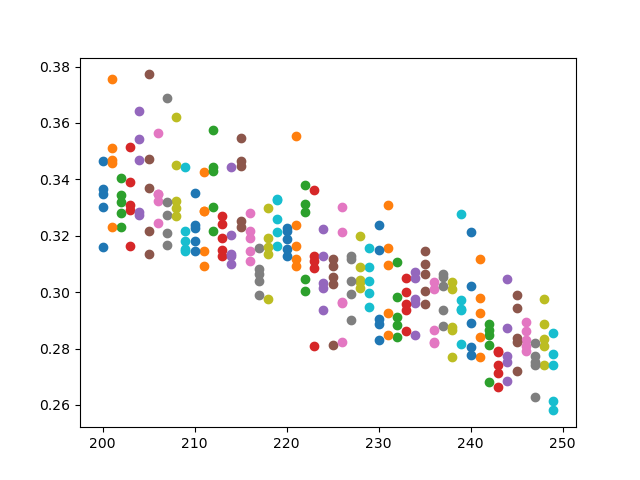
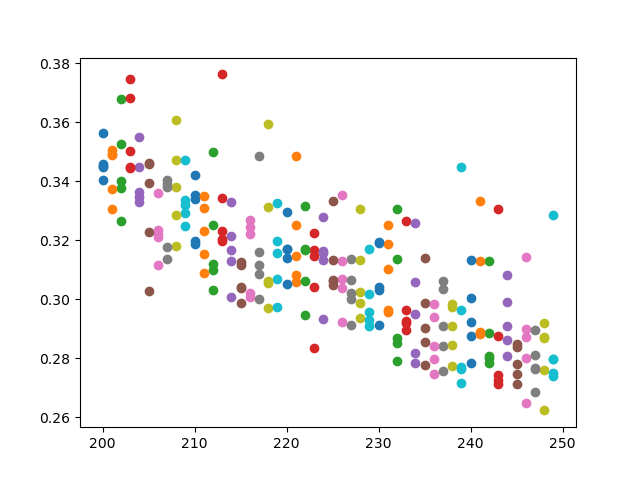
heteroskedastic noise ratio bound

diff --git a/data_generator.py b/data_generator.py
@@ -4,12 +4,13 @@ import math
 
 
 class SpikedCovarianceDataset():
-    def __init__(self, r, d, sigma, noise_sigma, label_mode='cls'):
+    def __init__(self, r, d, sigma, noise_sigma, heteroskedastic_bound, label_mode='cls'):
         ## Setting hyperparameters for data generation
         self.r = r
         self.d = d
         self.sigma = sigma
         self.noise_sigma = noise_sigma
+        self.heteroskedastic_bound = heteroskedastic_bound
 
         ## Creating orthonormal matrix U* through SVD
         u, s, vh = np.linalg.svd(np.random.rand(d, r), full_matrices=False)
@@ -52,9 +53,11 @@ class SpikedCovarianceDataset():
 
         # Heteroskedastic noise
         noise = np.zeros((self.d, batch_size))
+        ratio_bound = self.heteroskedastic_bound
         for idx in range(len(noise)):
-            # For every dimension, decrease the noise_sigma by a constant until we reach 0
-            heteroskedastic_noise_sigma = self.noise_sigma - self.noise_sigma/self.d * idx
+            # For every dimension, decrease the noise_sigma by a constant until we reach ratio bound
+            heteroskedastic_noise_sigma = self.noise_sigma - \
+                                          (self.noise_sigma - self.noise_sigma/ratio_bound)/len(noise) * idx
             noise[idx] = np.random.normal(0., heteroskedastic_noise_sigma, batch_size)
 
         ## Input features are U*z + E

diff --git a/main.py b/main.py
@@ -16,7 +16,7 @@ def run(args):
     random.seed(int(args.seed))
     torch.manual_seed(int(args.seed))
     ## Call data generator
-    generator = SpikedCovarianceDataset(args.r, args.d, args.sigma, args.noise_sigma, label_mode=args.dwn_mode)
+    generator = SpikedCovarianceDataset(args.r, args.d, args.sigma, args.noise_sigma, args.het_bound, label_mode=args.dwn_mode)
     X_train, y_train, r_train = generator.get_next_batch(batch_size=args.train_size)
     X_test, y_test, r_test = generator.get_next_batch(batch_size=args.test_size)
 
@@ -84,6 +84,7 @@ def obtain_args():
     parser.add_argument("--d", type=int, default=40, help="Representation Dimension of Generated Input")
     parser.add_argument("--sigma", type=float, default=1., help="Standard Deviation of original signal")
     parser.add_argument("--noise_sigma", type=float, default=1., help="Standard Deviation of noise signal")
+    parser.add_argument("--het_bound", type=float, default=2., help="Heteroskedastic noise ratio bound")
 
     ## Parameters for Training
     ## Add more and change as required

diff --git a/test_incoherence.py b/test_incoherence.py
@@ -1,6 +1,13 @@
 import numpy as np
 import matplotlib.pyplot as plt
 
+# ratio_bound = [1, 2, 3, 4, 5]
+# sinedistance = [1.277072, 1.567626, 1.774886, 1.896988, 1.975354]
+#
+# plt.plot(ratio_bound, sinedistance)
+# plt.savefig('Heteroskedastic_noise.png')
+# exit()
+
 # d = 200
 d_array = range(200, 250)
 r = 50
